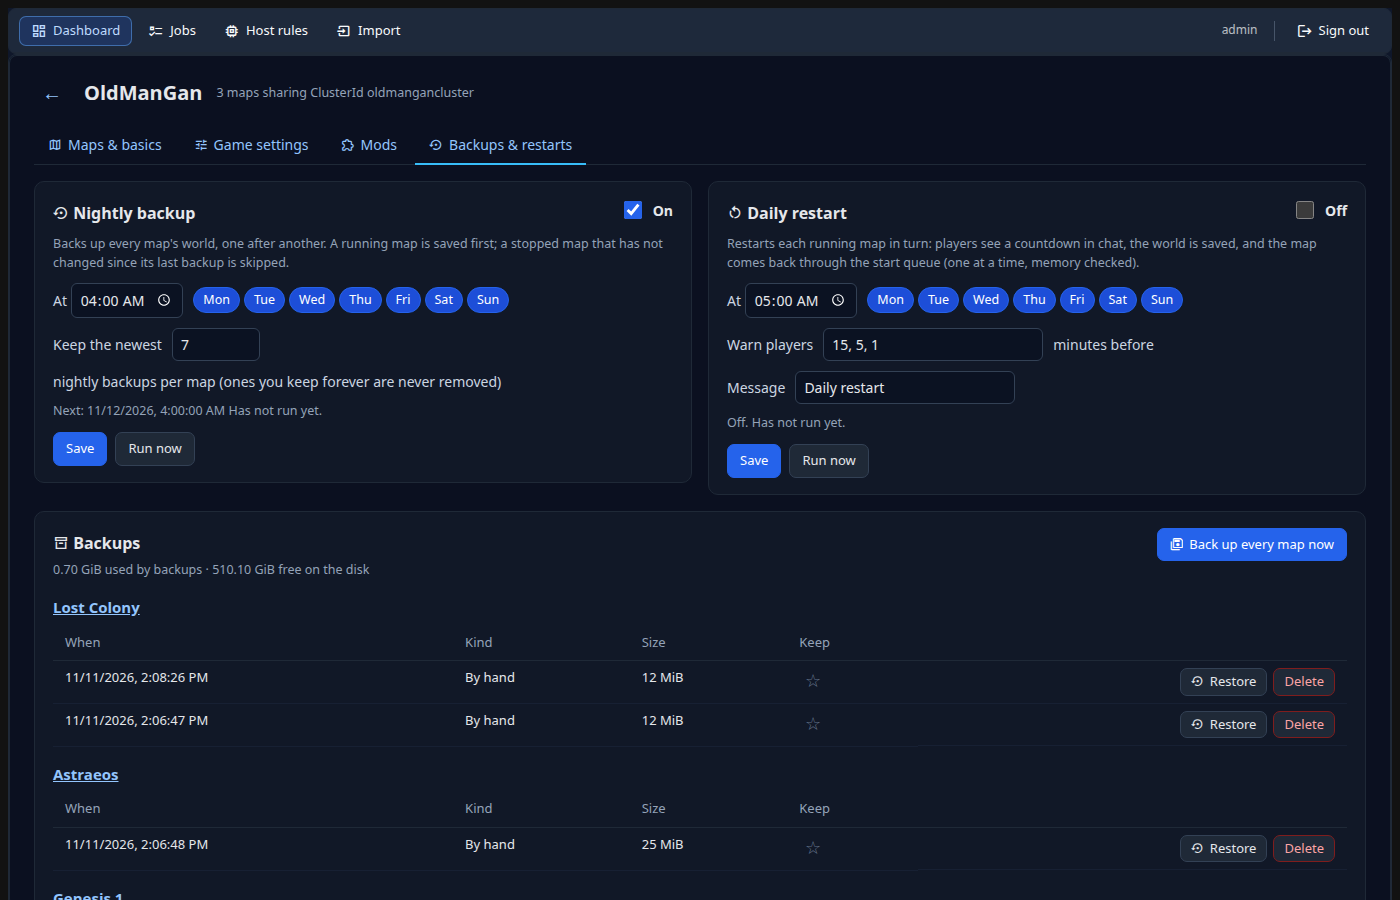
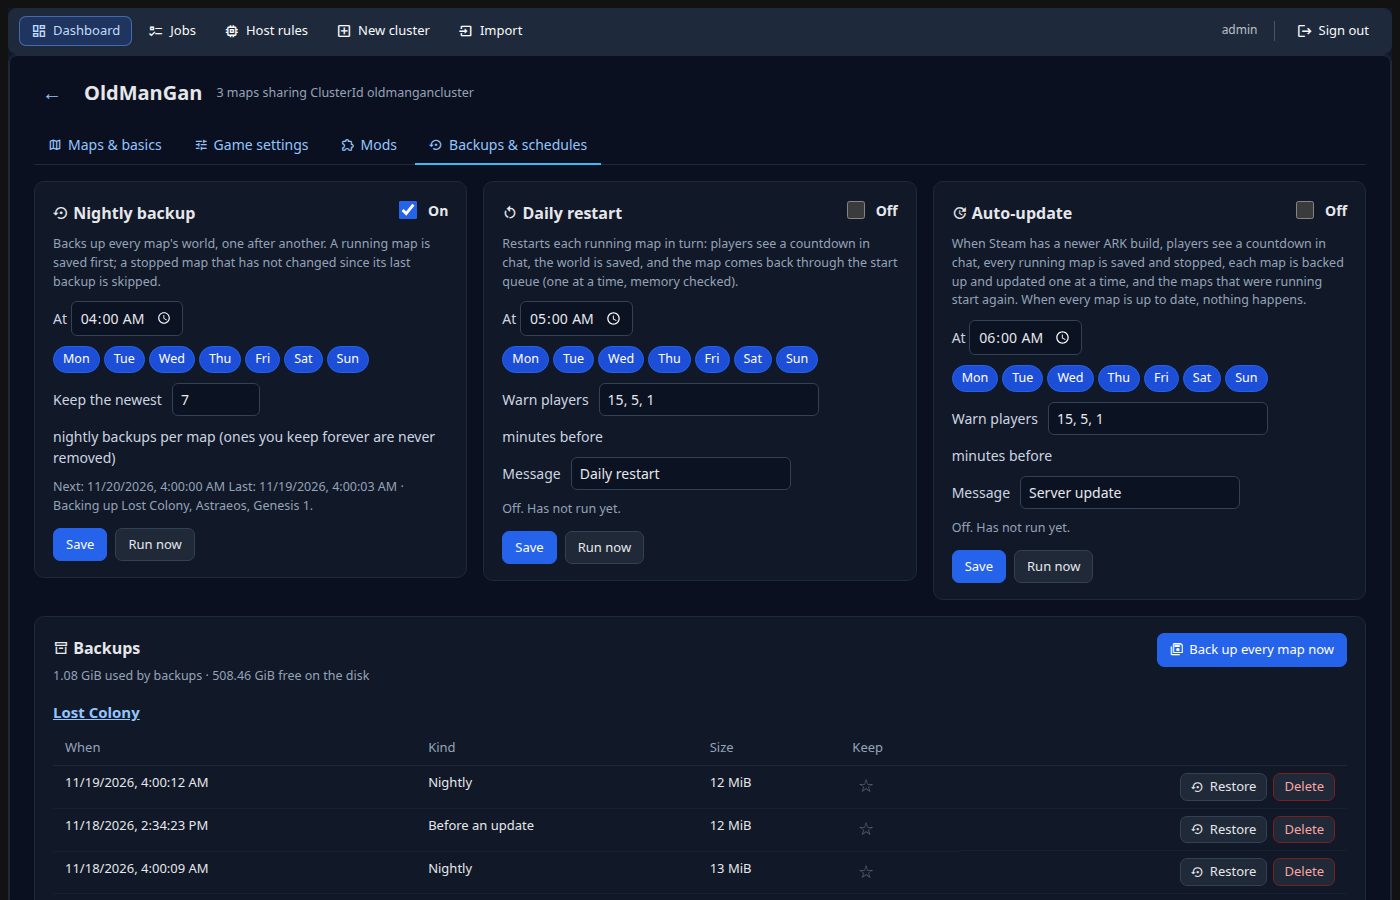
README: several clusters, memory history, auto-update, Files tab, new screenshots

diff --git a/README.md b/README.md
@@ -15,14 +15,16 @@ of memory.
 - **Clusters first.** A cluster is a set of maps that share a ClusterId,
   so survivors, creatures and items travel between them. Its maps share
   game settings, mods and passwords; any map can differ where you want it
-  to. A single map is a one-map cluster.
+  to. A single map is a one-map cluster, and one machine can run several
+  clusters, each with its own maps.
 - **Never runs out of memory.** Every map has a *running need*, measured
   once it is fully up, and a larger *startup need*. A map only starts if
   the host can hold it. Starts run one at a time through a **start queue**:
   each map waits its turn, memory is checked again, the map starts fully
   and is measured, then the next one begins. Starts retry on a crash
   while loading, can be cancelled, and a **memory watchdog** saves and
-  stops a map before the kernel would kill one.
+  stops a map before the kernel would kill one. **Memory history** charts
+  show every map's memory over the last 14 days.
 - **Game settings as sliders.** Difficulty, experience, taming,
   gathering, breeding and raising, stacks, survival, day and night,
   rules and cluster travel, with presets (Official, Casual 3×,
@@ -30,15 +32,19 @@ of memory.
   app writes them into each map's files right before it starts, so ARK
   never overwrites them.
 - **Mods** by CurseForge id, in load order, with names you give them.
-- **Backups and restore.** Nightly backups (keep the newest N; keep any
-  forever), one-click restore, and a daily restart with an in-game
-  countdown.
+- **Backups and schedules.** Nightly backups (keep the newest N; keep any
+  forever), one-click restore, a daily restart with an in-game countdown,
+  and **auto-update** when ARK is patched.
 - **Players and console.** Who is online, kick, cluster-wide bans,
   messages in chat or on screen, join and leave history, the live game
   log and admin commands.
 - **Add a map** wizard: pick a map, it copies the game files (or
   downloads them), picks free ports and joins the cluster's settings.
-- **Updates** one map at a time, with a backup first.
+  Maps can be removed again, with or without their files.
+- **Updates** one map at a time, with a backup first; **Update all** brings
+  the maps that were running back afterwards.
+- **Files** tab: browse a map's world, settings and game files from the
+  browser, and edit config files while it is stopped.
 
 | | |
 |---|---|
